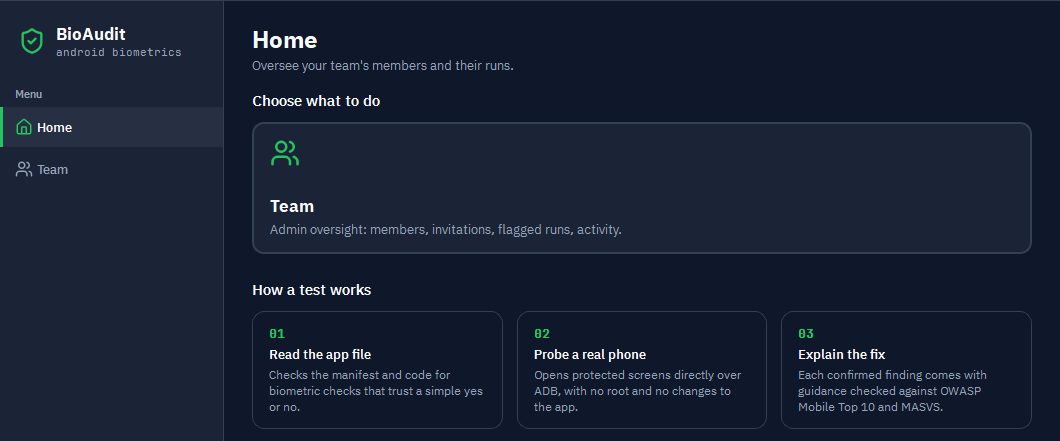
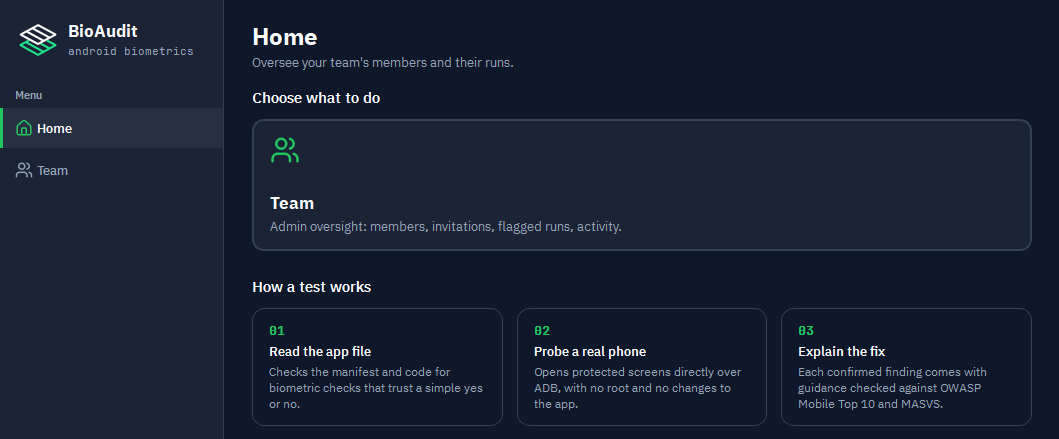
Updated home page format to accommodate upcoming marketing video

diff --git a/public/css/index.css b/public/css/index.css
@@ -48,6 +48,11 @@ html { scroll-behavior: smooth; }
   box-shadow: 0 30px 60px -30px rgba(0, 0, 0, 0.6);
 }
 
+.hero-shot .shot-img {
+  aspect-ratio: 16 / 9;
+  object-fit: cover;
+}
+
 h2 { font-weight: 300; }
 
 /* ===== Hero ===== */
@@ -55,9 +60,16 @@ h2 { font-weight: 300; }
   padding: calc(var(--header-h) + 64px) clamp(20px, 5vw, 96px) 60px;
 }
 
+.hero-main { text-align: right; }
+
+.hero-main .hero-sub {
+  margin: 32px 0 0 auto;
+  text-align: right;
+}
+
 .hero-inner {
   width: 100%;
-  max-width: 1200px;
+  max-width: 1400px;
   margin: 0 auto;
   text-align: center;
 }
@@ -69,17 +81,48 @@ h2 { font-weight: 300; }
   line-height: 1.08;
 }
 
-.hero-sub {
-  margin: 64px auto 0;
-  max-width: 44ch;
-  font-size: clamp(1rem, 1.4vw, 1.25rem);
-  line-height: 1.5;
+.hero .btn { margin-top: 28px; }
+
+.hero-shot { margin: 0; }
+
+.hero-grid {
+  display: grid;
+  grid-template-columns: repeat(2, minmax(0, 1fr));
+  gap: 48px;
+  align-items: start;
+  margin-top: 48px;
+}
+
+.video-frame {
+  position: relative;
+  aspect-ratio: 16 / 9;
+  border-radius: 12px;
+  overflow: hidden;
+  border: 1px solid var(--card-edge);
+  box-shadow: 0 30px 60px -30px rgba(0, 0, 0, 0.6);
+  background: #0b1220;
+}
+
+.video-frame iframe {
+  position: absolute;
+  inset: 0;
+  width: 100%;
+  height: 100%;
+  border: 0;
+}
+
+.video-placeholder {
+  display: grid;
+  place-items: center;
+  height: 100%;
   color: var(--soft);
 }
 
-.hero .btn { margin-top: 28px; }
-
-.hero-shot { max-width: 1060px; margin: 48px auto 0; }
+@media (max-width: 900px) {
+  .hero-grid { grid-template-columns: 1fr; }
+  .hero-main { text-align: center; }
+  .hero-main .hero-sub { margin: 32px auto 0; }
+}
 
 /* ===== How it works ===== */
 .steps {

diff --git a/public/index.html b/public/index.html
@@ -35,14 +35,26 @@
   <section class="hero">
     <div class="hero-inner">
       <h1>An automated biometric security <br> analysis for mobile apps </h1>
-    
-      <div class="shot hero-shot">
-        <img class="shot-img" src="assets/app-home.png" alt="The BioAudit app home screen, with options to scan an APK, assess a device or view history">
+
+      <div class="hero-grid">
+        <div class="hero-main">
+          <div class="shot hero-shot">
+            <img class="shot-img" src="assets/app-home.png" alt="The BioAudit app home screen, with options to scan an APK, assess a device or view history">
+          </div>
+          <p class="hero-sub">Find the security gaps hiding behind your app with BioAudit.</p>
+          <a class="btn" href="plans.html">Get BioAudit</a>
+        </div>
+
+        <div class="hero-video">
+          <div class="video-frame">
+            <div class="video-placeholder">Video coming soon</div>
+          </div>
+        </div>
       </div>
-      <p class="hero-sub">Find the security gaps hiding behind your app with BioAudit.</p>
-      <a class="btn" href="plans.html">Get BioAudit</a>
     </div>
   </section>
+
+  <!-- ===== How it works ... stays as it was -->
 
   <!-- ===== How it works: Detect. Assess. Advise. ===== -->
   <section class="steps" id="how-it-works">
